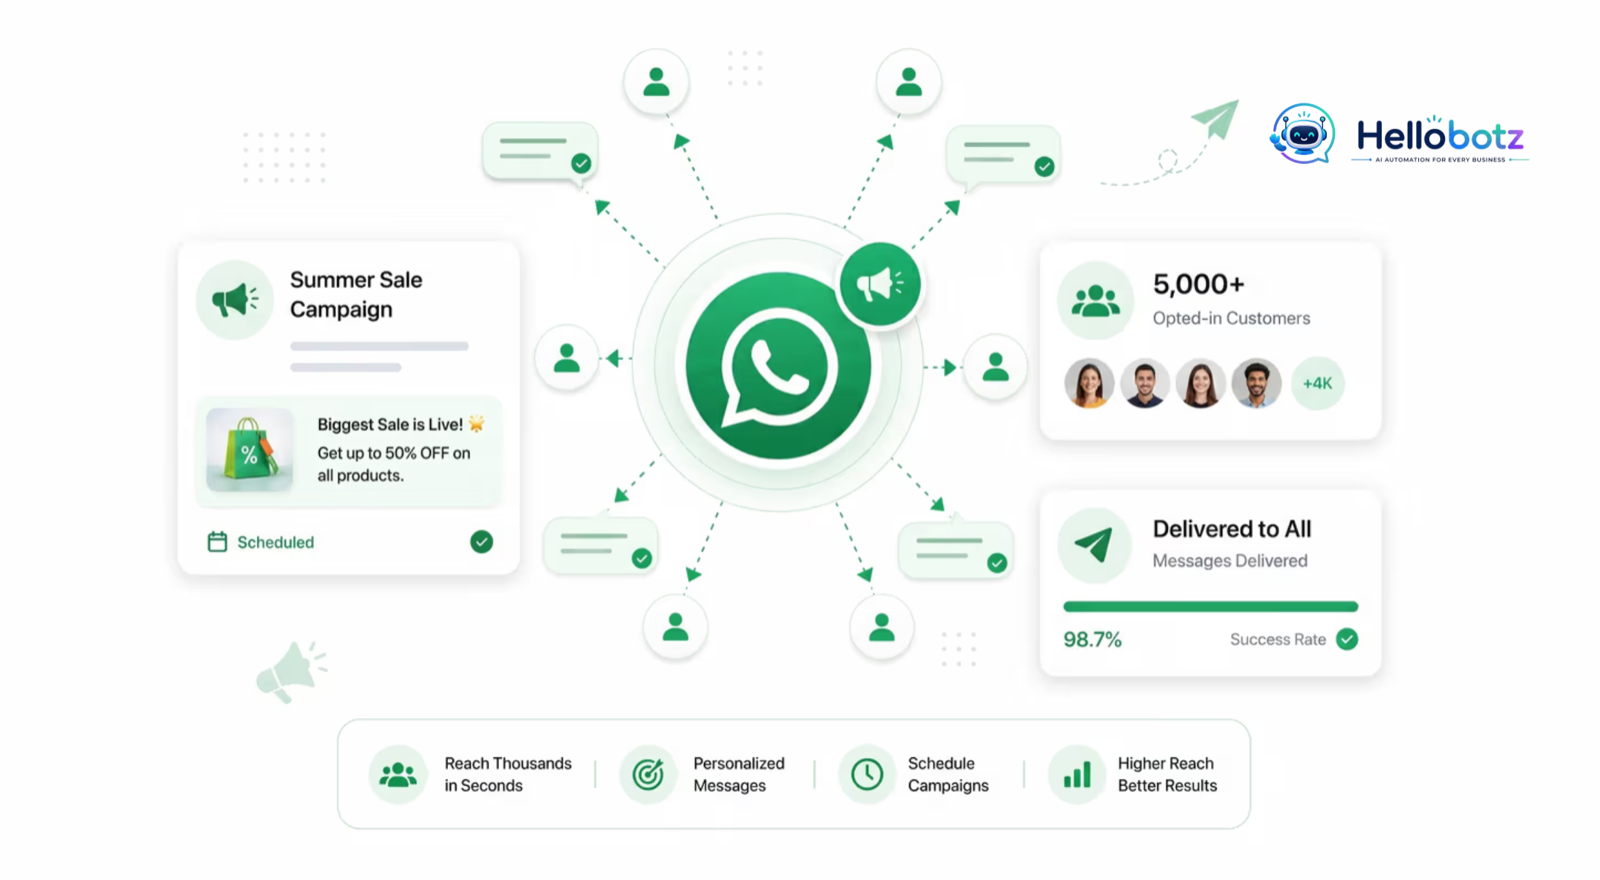
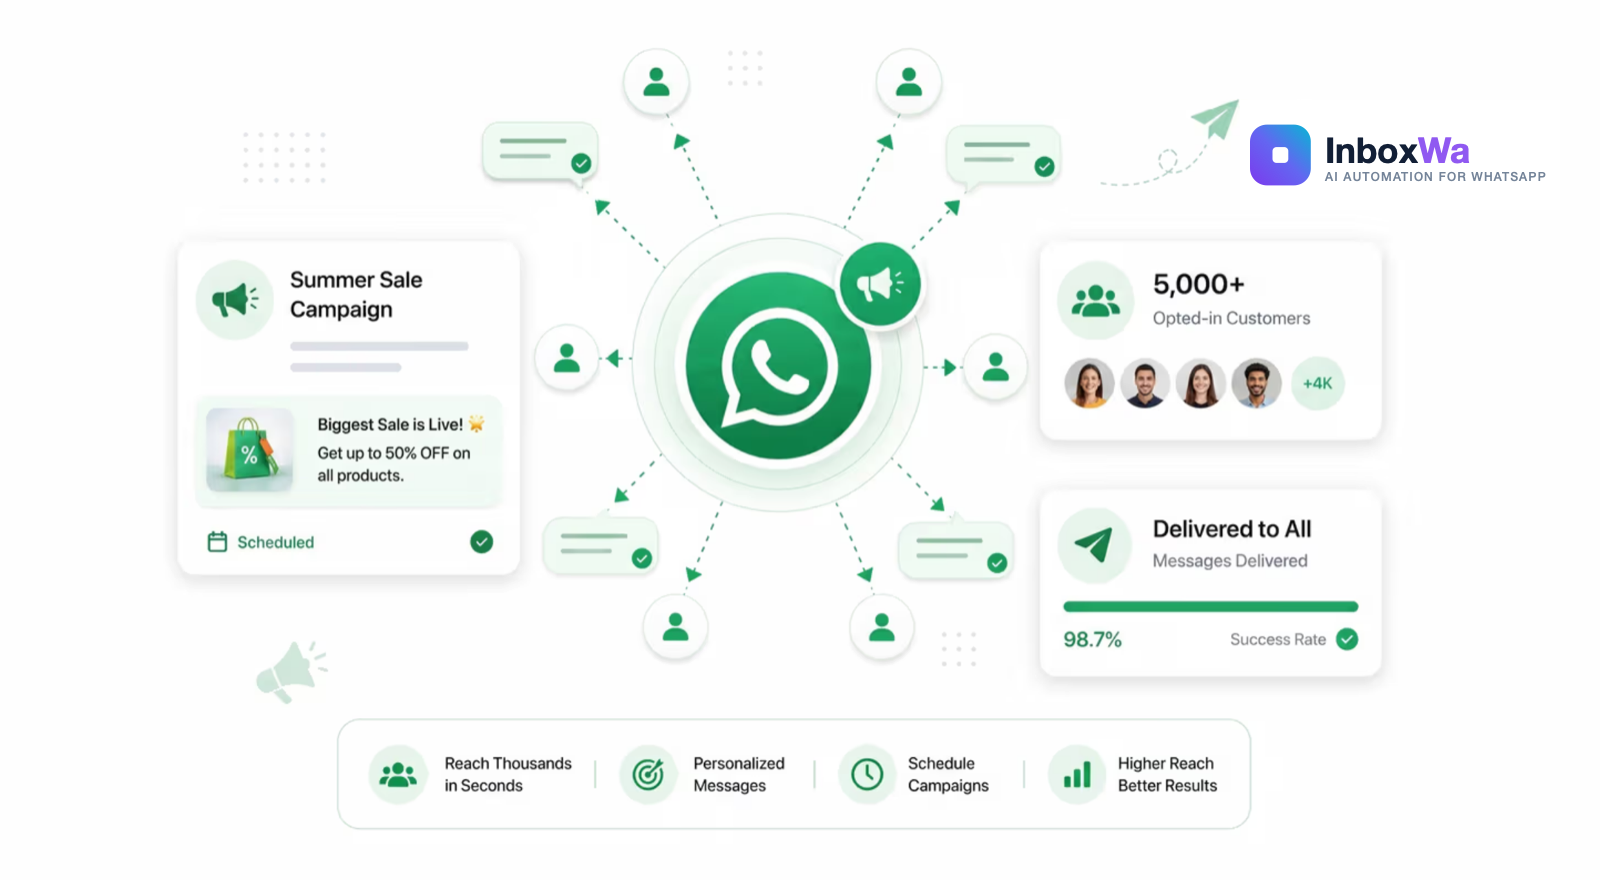
Rebrand all capabilities, journey flows, graphics, and documentation to InboxWa

Changed region(s): [[0.7812, 0.1227, 0.9688, 0.2148]]

diff --git a/secure-console-x7/index.php b/secure-console-x7/index.php
@@ -2597,7 +2597,7 @@ $themePreset = hb_get_setting('theme_palette_preset', 'modern-violet');
                                     <tr>
                                         <th scope="row"><label for="siteurl">WordPress Address (URL)</label></th>
                                         <td>
-                                            <input name="siteurl" type="url" id="siteurl" value="<?php echo htmlspecialchars((isset($_SERVER['HTTPS']) ? 'https://' : 'http://') . ($_SERVER['HTTP_HOST'] ?? 'hellobotz-fm3x-eta.vercel.app')); ?>" class="regular-text code" style="background:#f0f0f1; border-color:#dcdcde; color:#646970;" readonly>
+                                            <input name="siteurl" type="url" id="siteurl" value="<?php echo htmlspecialchars((isset($_SERVER['HTTPS']) ? 'https://' : 'http://') . ($_SERVER['HTTP_HOST'] ?? 'inboxwa.com')); ?>" class="regular-text code" style="background:#f0f0f1; border-color:#dcdcde; color:#646970;" readonly>
                                         </td>
                                     </tr>
 
@@ -2605,7 +2605,7 @@ $themePreset = hb_get_setting('theme_palette_preset', 'modern-violet');
                                     <tr>
                                         <th scope="row"><label for="home">Site Address (URL)</label></th>
                                         <td>
-                                            <input name="home" type="url" id="home" value="<?php echo htmlspecialchars((isset($_SERVER['HTTPS']) ? 'https://' : 'http://') . ($_SERVER['HTTP_HOST'] ?? 'hellobotz-fm3x-eta.vercel.app')); ?>" class="regular-text code" style="background:#f0f0f1; border-color:#dcdcde; color:#646970;" readonly>
+                                            <input name="home" type="url" id="home" value="<?php echo htmlspecialchars((isset($_SERVER['HTTPS']) ? 'https://' : 'http://') . ($_SERVER['HTTP_HOST'] ?? 'inboxwa.com')); ?>" class="regular-text code" style="background:#f0f0f1; border-color:#dcdcde; color:#646970;" readonly>
                                         </td>
                                     </tr>
 

diff --git a/includes/header.php b/includes/header.php
@@ -395,7 +395,7 @@ if (!function_exists('hb_seo_esc')) {
       position: static !important;
     }
 
-    /* Hellobotz-Style Dark Mega Menu for Channels (100% Centered & Never Cut Off) */
+    /* InboxWa Dark Mega Menu for Channels (100% Centered & Never Cut Off) */
     .mega-menu-channels,
     .mega-menu-channels.align-left,
     .mega-menu-channels.align-right {
@@ -1312,7 +1312,7 @@ if (!function_exists('hb_seo_esc')) {
           </div>
         </div>
 
-        <!-- CHANNELS [LIVE] MEGAMENU (Hellobotz Style) -->
+        <!-- CHANNELS [LIVE] MEGAMENU (InboxWa Suite) -->
         <div class="nav-item nav-item-channels" data-mega>
           <button type="button" class="nav-link nav-link-channels" aria-expanded="false" aria-haspopup="true">
             Channels <span class="badge-live-pill">Live</span>

diff --git a/index.php b/index.php
@@ -1774,7 +1774,7 @@ include __DIR__ . '/includes/header.php';
     </div>
   </section>
 
-  <!-- 2.5 CLONED 5-STEP JOURNEY FLOW (HELLOBOTZ CLONE) -->
+  <!-- 2.5 5-STEP JOURNEY FLOW (INBOXWA AUTOMATION) -->
   <section class="jf-section" id="journey-flow">
     <!-- SECTION HEADER -->
     <div class="jf-header">

diff --git a/docs/SEO-META.md b/docs/SEO-META.md
@@ -6,8 +6,8 @@ Every page can set (before including header.php):
 $pageTitle = 'AI WhatsApp Chatbot';
 $pageDescription = '150–160 char summary with primary keyword.';
 $pageKeywords = 'optional, comma, keywords';
-$canonicalUrl = 'https://hellobotz.com/Products/Chatbot/';
-$ogImage = 'https://hellobotz.com/assets/images/og/chatbot.png';
+$canonicalUrl = 'https://inboxwa.com/Products/Chatbot/';
+$ogImage = 'https://inboxwa.com/assets/images/og/chatbot.png';
 $ogType = 'website'; // or article
 $robots = 'index, follow'; // or noindex, nofollow
 ```
@@ -22,4 +22,4 @@ Header auto-builds:
 
 Auth pages use `noindex, nofollow`.
 
-Domain constant: `https://hellobotz.com` in header SEO engine.
+Domain constant: `https://inboxwa.com` in header SEO engine.

diff --git a/IMAGE_GUIDE.md b/IMAGE_GUIDE.md
@@ -1,4 +1,4 @@
-# HelloBotz — Image Placement & Size Guide
+# InboxWa — Image Placement & Size Guide
 
 Use this file when replacing placeholders or adding new visuals.  
 **Rule:** Keep existing layout; only swap image files or fill empty slots. Prefer **WebP** (fallback PNG). Always set width/height attributes or use CSS aspect-ratio classes to avoid layout shift.
@@ -155,4 +155,4 @@ Use `.img-slot-hero` for page heroes, `.img-slot-md` for feature rows.
 
 ---
 
-*Generated for HelloBotz production UI package. Paths are root-relative from site root.*
+*Generated for InboxWa production UI package. Paths are root-relative from site root.*

diff --git a/docs/ALL-IMAGES.md b/docs/ALL-IMAGES.md
@@ -1,4 +1,4 @@
-# HelloBotz — Complete image list (name + location)
+# InboxWa — Complete image list (name + location)
 
 Place files under web root. Prefer WebP. Missing files use CSS gradients (no broken icons).
 

diff --git a/docs/IMAGE-PLACEMENT.md b/docs/IMAGE-PLACEMENT.md
@@ -1,4 +1,4 @@
-# HelloBotz — Image placement list
+# InboxWa — Image placement list
 
 Place real assets under `/assets/images/`. Use WebP/PNG. Always set width/height and alt.
 

diff --git a/assets/images/README.md b/assets/images/README.md
@@ -1,4 +1,4 @@
-# HelloBotz Images — Upload Guide
+# InboxWa Images — Upload Guide
 
 Place your images here. Recommended sizes:
 

diff --git a/docs/URL-INVENTORY.md b/docs/URL-INVENTORY.md
@@ -1,4 +1,4 @@
-# HelloBotz URL inventory (production)
+# InboxWa URL inventory (production)
 
 ## Auth
 /auth/login

diff --git a/docs/IMAGE-STRUCTURE.md b/docs/IMAGE-STRUCTURE.md
@@ -1,4 +1,4 @@
-# HelloBotz complete image structure
+# InboxWa complete image structure
 
 ```
 /assets/images/

diff --git a/docs/README.md b/docs/README.md
@@ -1,4 +1,4 @@
-# HelloBotz
+# InboxWa
 
 Premium omnichannel WhatsApp API platform site.
 
